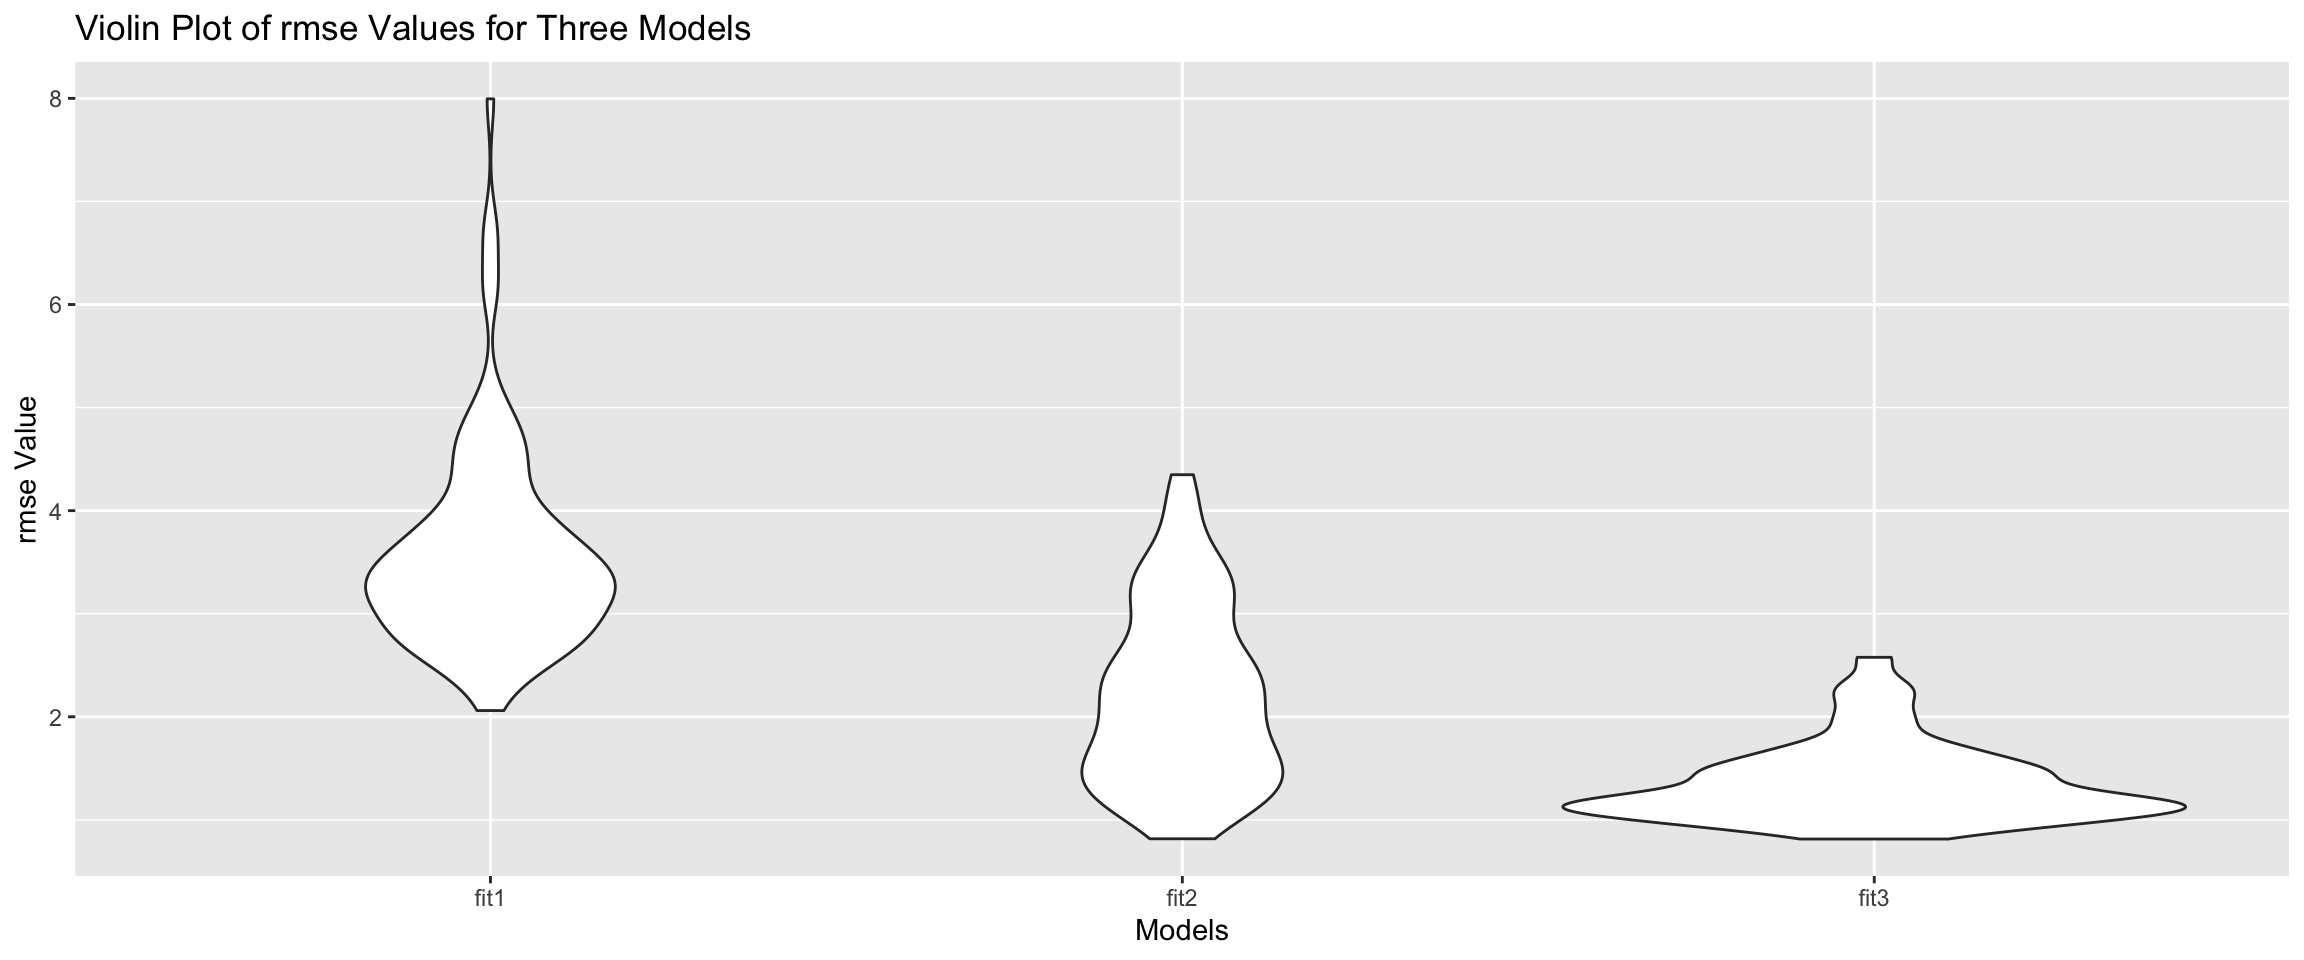
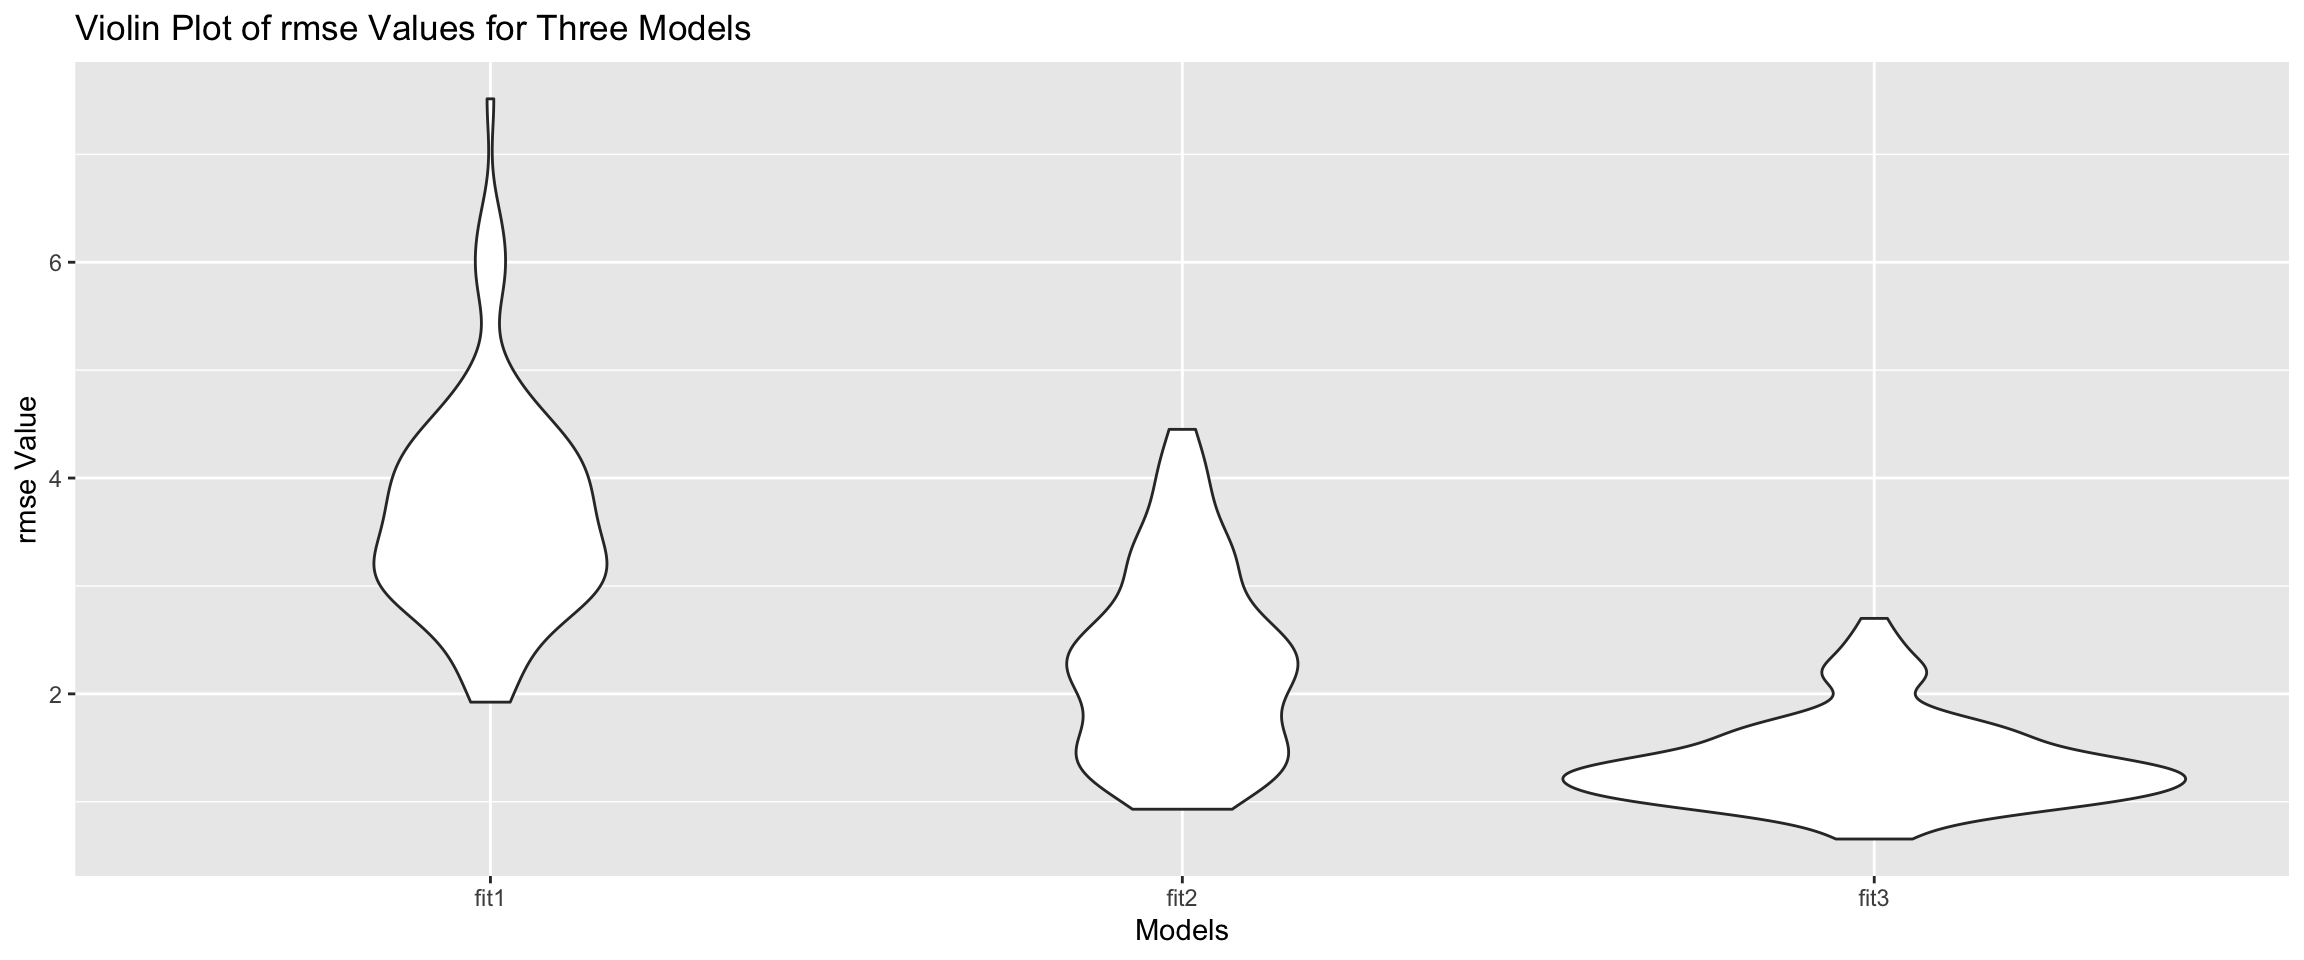
model building final update

Changed region(s): [[0.0312, 0.1562, 0.5312, 0.7812], [0.4688, 0.5625, 1.0, 0.875]]

diff --git a/modelbuilding.html b/modelbuilding.html
@@ -13,7 +13,7 @@
 
 <title>Model Building</title>
 
-<script src="site_libs/header-attrs-2.16/header-attrs.js"></script>
+<script src="site_libs/header-attrs-2.18/header-attrs.js"></script>
 <script src="site_libs/jquery-3.6.0/jquery-3.6.0.min.js"></script>
 <meta name="viewport" content="width=device-width, initial-scale=1" />
 <link href="site_libs/bootstrap-3.3.5/css/cosmo.min.css" rel="stylesheet" />
@@ -181,8 +181,8 @@ $(document).ready(function () {
   border-radius: 4px;
 }
 
-.tabset-dropdown > .nav-tabs > li.active:before {
-  content: "";
+.tabset-dropdown > .nav-tabs > li.active:before, .tabset-dropdown > .nav-tabs.nav-tabs-open:before {
+  content: "\e259";
   font-family: 'Glyphicons Halflings';
   display: inline-block;
   padding: 10px;
@@ -190,16 +190,9 @@ $(document).ready(function () {
 }
 
 .tabset-dropdown > .nav-tabs.nav-tabs-open > li.active:before {
-  content: "&#xe258;";
-  border: none;
-}
-
-.tabset-dropdown > .nav-tabs.nav-tabs-open:before {
-  content: "";
+  content: "\e258";
   font-family: 'Glyphicons Halflings';
-  display: inline-block;
-  padding: 10px;
-  border-right: 1px solid #ddd;
+  border: none;
 }
 
 .tabset-dropdown > .nav-tabs > li.active {
@@ -319,30 +312,9 @@ $(document).ready(function () {
 <p><br></p>
 <div id="overview" class="section level1">
 <h1>Overview</h1>
-<<<<<<< HEAD
 <p>We summarize the statistics of world cups from 1990 to 2018 for all the countries that made to the World Cup to help us make preditions of wining in the 2022 World Cup.</p>
 <p>We tried different ways for model selection, including stepwise selection, forward and backward selection, and LASSO, with different selecting criterias, such as AIC, BIC, and p-values. After comparing the rmse, R-square and p-values, we decide to use the model from forward selection with p-value.</p>
 <p>While there are two variables that are on the borderline of our threshold, alpha = 0.05, we got three different models to include either or both of these two variables. Then, we used cross validation to check which model has the best performance.After comparing their rmse, we get the final model - w = -1.554369 + 0.661219pld - 0.622216d + 0.015920rank + 0.153794gf -0.225378ga.</p>
-=======
-<div
-id="we-summarize-the-statistics-of-world-cups-from-1990-to-2018-for-all-the-countries-that-made-to-the-world-cup."
-class="section level5">
-<h5>We summarize the statistics of world cups from 1990 to 2018 for all
-the countries that made to the World Cup.</h5>
-</div>
-<div
-id="we-tried-different-ways-for-model-selection-inclusing-step-wise-selection-foward-and-backward-selection-and-lasso-with-different-selecting-criterias-such-as-aic-bic-and-p-values.-after-comparing-the-rmse-r-square-and-p-values-we-decide-to-use-the-model-from-foward-selection.-while-there-are-two-variables-that-are-on-the-obrderline-of-our-threshold-alpha-0.05-we-created-three-models-and-used-cross-validation-to-compare-them.-after-comparing-their-rmse-we-get-the-final-model---w--1.554369-0.661219pld---0.622216d-0.015920rank-0.153794gf--0.225378ga."
-class="section level5">
-<h5>We tried different ways for model selection, inclusing step-wise
-selection, foward and backward selection, and LASSO, with different
-selecting criterias, such as AIC, BIC, and p-values. After comparing the
-rmse, R-square and p-values, we decide to use the model from foward
-selection. While there are two variables that are on the obrderline of
-our threshold, alpha = 0.05, we created three models and used cross
-validation to compare them. After comparing their rmse, we get the final
-model - w = -1.554369 + 0.661219pld - 0.622216d + 0.015920rank +
-0.153794gf -0.225378ga.</h5>
->>>>>>> 33b75d72c640657e566698112860be6d48608981
 <p><br></p>
 </div>
 <div id="potential-predictors" class="section level1">
@@ -350,85 +322,49 @@ model - w = -1.554369 + 0.661219pld - 0.622216d + 0.015920rank +
 <p><br></p>
 <div id="variables-and-definitions" class="section level4">
 <h4>VARIABLES AND DEFINITIONS</h4>
-<div id="country-individual-country-represents-national-soccer-team"
-class="section level5">
-<h5><code>country</code>: Individual country (represents national soccer
-team)</h5>
+<div id="country-individual-country-represents-national-soccer-team" class="section level5">
+<h5><code>country</code>: Individual country (represents national soccer team)</h5>
 </div>
-<div
-id="part-number-of-times-each-country-has-participated-in-the-world-cup-all-time"
-class="section level5">
-<h5><code>part</code>: Number of times each country has participated in
-the World Cup (all time)</h5>
+<div id="part-number-of-times-each-country-has-participated-in-the-world-cup-all-time" class="section level5">
+<h5><code>part</code>: Number of times each country has participated in the World Cup (all time)</h5>
 </div>
-<div id="pld-number-of-games-played-in-the-world-cup-since-1990"
-class="section level5">
-<h5><code>pld</code>: Number of games played in the World Cup (since
-1990)</h5>
+<div id="pld-number-of-games-played-in-the-world-cup-since-1990" class="section level5">
+<h5><code>pld</code>: Number of games played in the World Cup (since 1990)</h5>
 </div>
-<div
-id="w-number-of-soccer-games-a-country-has-won-in-the-world-cup-since-1990"
-class="section level5">
-<h5><code>w</code>: Number of soccer games a country has won in the
-World Cup (since 1990)</h5>
+<div id="w-number-of-soccer-games-a-country-has-won-in-the-world-cup-since-1990" class="section level5">
+<h5><code>w</code>: Number of soccer games a country has won in the World Cup (since 1990)</h5>
 </div>
-<div
-id="d-number-of-soccer-games-a-country-has-drawn-in-the-world-cup-since-1990"
-class="section level5">
-<h5><code>d</code>: Number of soccer games a country has drawn in the
-World Cup (since 1990)</h5>
+<div id="d-number-of-soccer-games-a-country-has-drawn-in-the-world-cup-since-1990" class="section level5">
+<h5><code>d</code>: Number of soccer games a country has drawn in the World Cup (since 1990)</h5>
 </div>
-<div
-id="l-number-of-soccer-games-a-country-has-lost-in-the-world-cup-since-1990"
-class="section level5">
-<h5><code>l</code>: Number of soccer games a country has lost in the
-World Cup (since 1990)</h5>
+<div id="l-number-of-soccer-games-a-country-has-lost-in-the-world-cup-since-1990" class="section level5">
+<h5><code>l</code>: Number of soccer games a country has lost in the World Cup (since 1990)</h5>
 </div>
-<div
-id="gf-number-of-goals-a-country-has-scored-against-opponents-in-the-world-cup-since-1990"
-class="section level5">
-<h5><code>gf</code>: Number of goals a country has scored against
-opponents in the World Cup (since 1990)</h5>
+<div id="gf-number-of-goals-a-country-has-scored-against-opponents-in-the-world-cup-since-1990" class="section level5">
+<h5><code>gf</code>: Number of goals a country has scored against opponents in the World Cup (since 1990)</h5>
 </div>
-<div
-id="ga-number-of-goals-scored-against-a-country-in-the-world-cup-since-1990"
-class="section level5">
-<h5><code>ga</code>: Number of goals scored against a country in the
-World Cup (since 1990)</h5>
+<div id="ga-number-of-goals-scored-against-a-country-in-the-world-cup-since-1990" class="section level5">
+<h5><code>ga</code>: Number of goals scored against a country in the World Cup (since 1990)</h5>
 </div>
-<div
-id="gd-goal-difference-of-country-goals-scored-by-country-minus-goals-scored-against-country"
-class="section level5">
-<h5><code>gd</code>: Goal difference of country (goals scored by country
-minus goals scored against country)</h5>
+<div id="gd-goal-difference-of-country-goals-scored-by-country-minus-goals-scored-against-country" class="section level5">
+<h5><code>gd</code>: Goal difference of country (goals scored by country minus goals scored against country)</h5>
 </div>
-<div
-id="pts-number-of-points-accumulated-by-country-in-the-world-cup-since-1990"
-class="section level5">
-<h5><code>pts</code>: Number of points accumulated by country in the
-World Cup (since 1990)</h5>
+<div id="pts-number-of-points-accumulated-by-country-in-the-world-cup-since-1990" class="section level5">
+<h5><code>pts</code>: Number of points accumulated by country in the World Cup (since 1990)</h5>
 </div>
-<div id="rank-country-official-fifa-ranking-2022-rankings"
-class="section level5">
-<h5><code>rank</code>: Country Official FIFA ranking (2022
-Rankings)</h5>
+<div id="rank-country-official-fifa-ranking-2022-rankings" class="section level5">
+<h5><code>rank</code>: Country Official FIFA ranking (2022 Rankings)</h5>
 </div>
 <div id="player-name-of-top-record-goal-scorer" class="section level5">
 <h5><code>player</code>: Name of top record goal scorer</h5>
 </div>
-<div id="goals-number-of-goals-scored-by-top-record-goal-scorer"
-class="section level5">
-<h5><code>goals</code>: Number of goals scored by top record goal
-scorer</h5>
+<div id="goals-number-of-goals-scored-by-top-record-goal-scorer" class="section level5">
+<h5><code>goals</code>: Number of goals scored by top record goal scorer</h5>
 </div>
-<div
-id="land_area_km-total-area-of-the-land-based-portions-of-a-countrys-geography-measured-in-square-kilometers-km²"
-class="section level5">
-<h5><code>land_area_km</code>: Total area of the land-based portions of
-a country’s geography (measured in square kilometers, km²)</h5>
+<div id="land_area_km-total-area-of-the-land-based-portions-of-a-countrys-geography-measured-in-square-kilometers-km²" class="section level5">
+<h5><code>land_area_km</code>: Total area of the land-based portions of a country’s geography (measured in square kilometers, km²)</h5>
 </div>
-<div id="confederation-country-fifa-confederation"
-class="section level5">
+<div id="confederation-country-fifa-confederation" class="section level5">
 <h5><code>confederation</code>: Country FIFA confederation</h5>
 <p><br></p>
 </div>
@@ -436,18 +372,8 @@ class="section level5">
 </div>
 <div id="correlation-plot" class="section level1">
 <h1>Correlation Plot</h1>
-<<<<<<< HEAD
-<div id="in-the-dataset-we-had-14-variables-and-79-observations.-to-check-for-collinearity-we-use-correlation-plots-to-explore-the-relationship-between-each-pair-of-numeric-predictors.-to-only-include-the-numeric-variables-we-use-the-select-function-to-exclude-the-qualitative-variables-such-as-player-country-and-gd." class="section level4">
-<h4>In the dataset, we had 14 variables and 79 observations. To check for collinearity, we use correlation plots to explore the relationship between each pair of numeric predictors. To only include the numeric variables, we use the <code>select</code> function to exclude the qualitative variables, such as player, country, and gd.</h4>
-=======
-<div
-id="to-check-for-colinearity-we-use-correlation-plot-to-explore-the-relationship-between-each-pair-of-numereic-predictors.-to-only-include-the-numeric-variables-we-use-select-function-to-exclude-variables-player-country-and-gd."
-class="section level4">
-<h4>To check for colinearity, we use correlation plot to explore the
-relationship between each pair of numereic predictors. To only include
-the numeric variables, we use select function to exclude variables,
-player, country, and gd.</h4>
->>>>>>> 33b75d72c640657e566698112860be6d48608981
+<div id="in-the-dataset-we-had-14-variables-and-79-observations.-to-check-for-collinearity-we-use-correlation-plots-to-explore-the-relationship-between-each-pair-of-numeric-predictors.-to-only-include-the-numeric-variables-we-use-the-select-function-to-exclude-the-qualitative-variables-such-as-player-country-and-gd.-the-deeper-color-in-the-plot-means-stronger-correlation-between-the-two-variables." class="section level4">
+<h4>In the dataset, we had 14 variables and 79 observations. To check for collinearity, we use correlation plots to explore the relationship between each pair of numeric predictors. To only include the numeric variables, we use the <code>select</code> function to exclude the qualitative variables, such as player, country, and gd. The deeper color in the plot means stronger correlation between the two variables.</h4>
 <pre class="r"><code>data &lt;- read.csv(&quot;./data/12_4_dataset.csv&quot;) %&gt;% 
   na.omit() %&gt;% 
   select(-country)
@@ -455,19 +381,12 @@ num = data[2:14] %&gt;%
   select(-gd, -player)
 corrplot(cor(num),  diag = FALSE)</code></pre>
 <p><img src="modelbuilding_files/figure-html/unnamed-chunk-1-1.png" width="1152" /></p>
-<p>The deeper color means stronger correlation between the two variables. For example, the</p>
 <p><br></p>
 </div>
 </div>
 <div id="cross-validation" class="section level1">
 <h1>Cross-validation</h1>
-<<<<<<< HEAD
-<p>While there are two variables that are on the borderline of our threshold, alpha = 0.05, we created three different models to include either or both of these two variables. Then, we used cross validation to check which model has the best performance.</p>
-=======
-<p>By using different selection method, we got three different models,
-and we want to use cross validation to check which model has the best
-performance.</p>
->>>>>>> 33b75d72c640657e566698112860be6d48608981
+<p>We decided to use forward selection for our final model, where we start with only the intercept and add one predictor as a time. The criteria we chose is p-value, which means we will select predictors to include based on p-values, until no more predictors having p-value less than 0.05 can be added to the model. While there are two variables that are on the borderline of our threshold, alpha = 0.05, we created three different models to include either or both of these two variables. Then, we used cross validation to check which model has the best performance.</p>
 <pre class="r"><code>cv_df =
   crossv_mc(data, 100) %&gt;% 
   mutate(
@@ -504,28 +423,13 @@ cv_df %&gt;%
   xlab(&quot;Models&quot;) +
   labs(title = &quot;Violin Plot of rmse Values for Three Models&quot;)</code></pre>
 <p><img src="modelbuilding_files/figure-html/unnamed-chunk-2-1.png" width="1152" /></p>
-<<<<<<< HEAD
 <p>From the violin plot, we can see that model 3 has the lowest rmse, which is the model chosen by forward selection. The first model has only three variables, pld, d, and rank. The second model has four variables, pld, d, rank, and gf. The third model has five variables, pld, d, rank, gf, and ga. After comparing their rmse, we get the final model - w = -1.554369 + 0.661219pld - 0.622216d + 0.015920rank + 0.153794gf -0.225378ga.</p>
-=======
-<p>These three models are the results from forward selection, but gf and
-ga are two variables on the border line. Therefore, we use cross
-validation to check is these two variables need to be included in the
-model and which model is the best. From the violin plot, we can see that
-model 3 has the lowest rmse, which is the model chosen by forward
-selection. The first model has only three variables, pld, d, and rank.
-The second model has four variables, pld, d, rank, and gf. The third
-model has five variables, pld, d, rank, gf, and ga.</p>
->>>>>>> 33b75d72c640657e566698112860be6d48608981
 <p><br></p>
 </div>
-<div id="models" class="section level1">
-<h1>Models</h1>
+<div id="compare-the-summary-of-the-models" class="section level1">
+<h1>Compare the summary of the Models</h1>
 <p><br></p>
-<p>Our final model was chosen by forward selection, where we start with
-only the intercept and add one predictor as a time. The criteria we
-chose is p-value, which means we will select predictors to include based
-on p-values, until no more predictors having p-value less than 0.05 can
-be added to the model.</p>
+<p>We use the <code>summary</code> function to compare the R^2 and p-values of the predictors.</p>
 <pre class="r"><code>model1=lm(w~pld + d + rank , data = num)
 model2=lm(w~pld + d + rank + gf, data = num)
 model3=lm(w~pld + d + rank + gf + ga, data = num)
@@ -596,31 +500,13 @@ summary(model1)</code></pre>
 ## Multiple R-squared:  0.9939, Adjusted R-squared:  0.9934 
 ## F-statistic:  2363 on 5 and 73 DF,  p-value: &lt; 0.00000000000000022</code></pre>
 <p><br></p>
-<<<<<<< HEAD
-<p>By looking at the summary, we can see that model 3 has the highest adj. R^2 of 99.3%, which means our model explain over 99% of the variance in the outcome (wins).</p>
-=======
-<p>By looking at the summary, we can see that model 3 has the highest
-adj. R^2 of 99.3%, which means our model explain over 99% of the
-variance in the outcome (wins)</p>
->>>>>>> 33b75d72c640657e566698112860be6d48608981
+<p>By looking at the summary, we can see that model 3 has the highest adj. R^2 of 99.3%, which means our model explain over 99% of the variance in the outcome (wins). This result consists with the result we got from the cross-validation. Therefore, we decide our final model to include 5 variables, pld, d, rank, gf, and ga.</p>
 <p><br></p>
 </div>
 <div id="resultsoutput-from-regression-model" class="section level1">
 <h1>Results/output from regression model</h1>
-<<<<<<< HEAD
 <p>Our final model is w = -1.554369 + 0.661219pld - 0.622216d + 0.015920rank + 0.153794gf -0.225378ga.</p>
 <p>After comparing the summary of the three models, we found that the model with variables: pld, d, rank, gf, ga, has the lowest rmse and highest adj.R^2 (about 99%), which means our model explain over 99% of the variance in the outcome (wins). The most significant variable in the model is ga with coefficient of -0.225378. That means if the number of goals scored against a country in the World Cup (since 1990) increases by 1 goal, the would decrease the number of winning by 0.225378, while holding other variables constant.</p>
-=======
-<p>Our final model is w = -1.554369 + 0.661219pld - 0.622216d +
-0.015920rank + 0.153794gf -0.225378ga.</p>
-<p>The most significant variable in the model is ga with coefficient of
--0.225378. That means if the number of number of goals scored against a
-country in the World Cup (since 1990) increases by 1 goal, the would
-decrease the number of winning by 0.225378, while holding other
-variables constant.</p>
-<p>With R^2 of 99.3%, which means our model explain over 99% of the
-variance in the outcome (wins).</p>
->>>>>>> 33b75d72c640657e566698112860be6d48608981
 </div>
 
 
